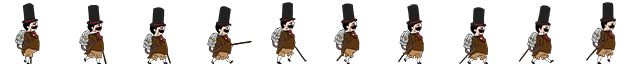
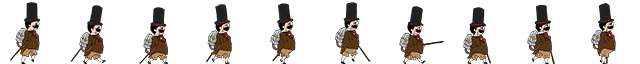
Included both player animations.

diff --git a/BGJ03/js/player.js b/BGJ03/js/player.js
@@ -8,9 +8,9 @@ Player = gamvas.Actor.extend({
         this.gun = new Gun("gun", this);
         st.addActor(this.gun);
 
-        this.addAnimation(new gamvas.Animation("anim1", st.resource.getImage('gfx/playerright.png'), 64, 64, 10, 10));
-        this.addAnimation(new gamvas.Animation("anim2", st.resource.getImage('gfx/playerleft.png'), 64, 64, 10, 10));
-        this.setAnimation("anim1");
+        this.addAnimation(new gamvas.Animation("right", st.resource.getImage('gfx/playerright.png'), 64, 64, 10, 10));
+        this.addAnimation(new gamvas.Animation("left", st.resource.getImage('gfx/playerleft.png'), 64, 64, 10, 10));
+        this.setAnimation("right");
 
         // create a static (non moving) rectangle
         //this.bodyCircle(this.position.x, this.position.y, 16, gamvas.physics.DYNAMIC);
@@ -48,6 +48,19 @@ Player = gamvas.Actor.extend({
                 this.actor.body.m_linearVelocity.x = f;
             } else {
                 this.actor.body.m_linearVelocity.x *= (1 - t * 8);
+            }
+            
+            if(this.actor.body.m_linearVelocity.x > 0.5)
+            {
+                this.actor.setAnimation("right");
+            }
+            else if(this.actor.body.m_linearVelocity.x < -0.5)
+            {
+                this.actor.setAnimation("left");
+            }
+            else
+            {
+                
             }
 
             if (this.actor.isOnGround() && this.actor.inAirJump && isKeyDown(JUMP_KEYS)) {
